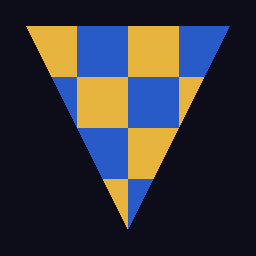
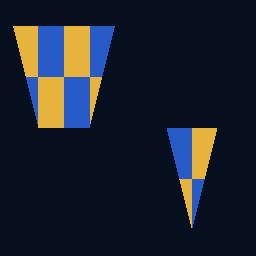
samples: demonstrate dynamic viewport and scissor

diff --git a/offscreen_triangle/README.md b/offscreen_triangle/README.md
@@ -2,25 +2,26 @@
 
 ![offscreen_triangle](screenshots/offscreen_triangle.png)
 
-Headless rasterization proof: a textured triangle rendered without a window or
-swapchain, written out as `offscreen_triangle.ppm`.
+Headless rasterization proof: textured triangles rendered into two clipped
+subregions without a window or swapchain, with optional PNG capture.
 
 Flow:
 
 1. Upload a checkerboard texture (staging → `TRANSFER_DST` → `SHADER_READ`).
 2. Transition a `color_attach|transfer_src` render target to `COLOR_ATTACHMENT`.
-3. One dynamic-rendering pass: clear + a single `cmd_draw`. The vertex shader
+3. One dynamic-rendering pass: clear, then two `cmd_draw` calls with distinct
+   dynamic viewports and hardware scissors. The built-in readback checks that
+   both clipped regions rendered and that the opposite quadrants stayed clear.
+   The vertex shader
    pulls positions/UVs through `vertex_root` (no vertex buffers); the fragment
    shader samples the checkerboard through `TextureIndex`/`SamplerIndex` in
    `fragment_root` — the descriptor heap, from a graphics stage.
-4. `COLOR_ATTACHMENT → TRANSFER_SRC` barrier, copy to a readback buffer, dump
-   as PPM.
+4. Read back and verify the clipped footprint; `--screenshot <path>` optionally
+   writes the result as PNG.
 
-Build and run (shaders first, see `samples/README.md`):
+Build and run from the repository root:
 
 ```sh
-sh scripts/build_shaders.sh
-cd samples
-c3c build offscreen_triangle
-./build/offscreen_triangle
+python scripts/build_shaders.py
+c3c run offscreen_triangle -- --screenshot offscreen_triangle.png
 ```

diff --git a/README.md b/README.md
@@ -61,8 +61,9 @@ for MAILBOX present mode:
 - `bindless_texture_compute` — headless. Writes a pattern into a storage image
   by `TextureIndex`, samples it back by the same index through the descriptor
   heap.
-- `offscreen_triangle` — headless rasterization. Textured triangle to an
-  offscreen target, dumped as PPM.
+- `offscreen_triangle` — headless. Textured triangles rendered into
+  dynamic viewport/scissor regions, verified by readback, with optional PNG
+  capture.
 - `memory_report` — headless. Creates a resource spread and prints memory
   stats and the leak report (`--detailed` for the VMA stats string).
 - `hello_triangle_sdl` — windowed. SDL3 window + swapchain presenting the